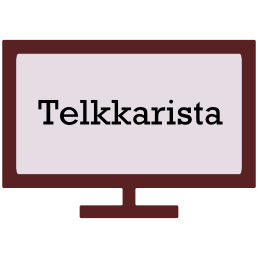
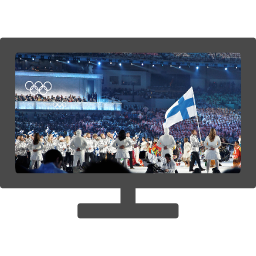
Updated images and fixed static images in live

diff --git a/default.py b/default.py
@@ -15,7 +15,7 @@
 VERSION = "0.0.1"
 
 import xbmc, xbmcgui, requests, json, re, os, xbmcplugin, urllib, time, xbmcaddon
-import datetime
+import datetime, urlparse, random
 import dateutil.parser
 telkkarista_addon = xbmcaddon.Addon("plugin.video.telkkarista");
 language = telkkarista_addon.getLocalizedString
@@ -124,26 +124,6 @@ def menu():
 
 
 
-# parse parameters when plugin is run
-def get_params():
-  #TODO use urllib.urlparse.parse_qs instead
-
-  param=[]
-  paramstring=sys.argv[2]
-  xbmc.log('----------------------------------------------telkkarista paramstring:'+paramstring)
-  if len(paramstring)>=2:
-      params=sys.argv[2]
-      cleanedparams=params.replace('?','')
-      if (params[len(params)-1]=='/'):
-        params=params[0:len(params)-2]
-      pairsofparams=cleanedparams.split('&')
-      param={}
-      for i in range(len(pairsofparams)):
-        splitparams={}
-        splitparams=pairsofparams[i].split('=')
-        if (len(splitparams))==2:
-          param[splitparams[0]]=splitparams[1]
-  return param
 
 #list the programs in a feed
 def listprograms(url,data):
@@ -206,12 +186,13 @@ def livetv():
   t=datetime.datetime.now()
   content=apiget('streams/get','')
   sessionkey=telkkarista_addon.getSetting("sessionkey")
+  content=sorted(content, key=lambda k: k['streamOrder']) 
   for p in content:
     channel=p['name']
     title=p['visibleName']
     playurl = '%s/%s/live/%s.m3u8' % (PLAYROOT, sessionkey, channel)
     #http://46.166.187.206/55568915febb6c574beb42fb.-43b36895/live/yletv1.m3u8
-    iconurl='%s/%s/live/%s_small.jpg' % (PLAYROOT, sessionkey, channel)
+    iconurl='%s/%s/live/%s_small.jpg?%i' % (PLAYROOT, sessionkey, channel, random.randint(0,2e9))
     #http://46.166.187.206/55568915febb6c574beb42fb.-43b36895/live/nelonen_small.jpg?1431734568978
     listitem = xbmcgui.ListItem(label=title, iconImage=iconurl)
     xbmcplugin.addDirectoryItem(handle=int(sys.argv[1]),url=playurl,listitem=listitem)
@@ -264,14 +245,15 @@ def delsearches():
 #main program
 
 
-params=get_params()
+#params=get_params()
+params=dict(urlparse.parse_qsl(urlparse.urlparse(sys.argv[2]).query))#urlparse.parse_qs(urlparse.urlparse(sys.argv[2]).query)
 mode=None
 data=None
 url=None
 try:
   mode=params["mode"]
-  data=requests.utils.unquote(params["data"])
-  url=requests.utils.unquote(params["url"])
+  data=params["data"]
+  url=params["url"]
 except:
   pass
 
